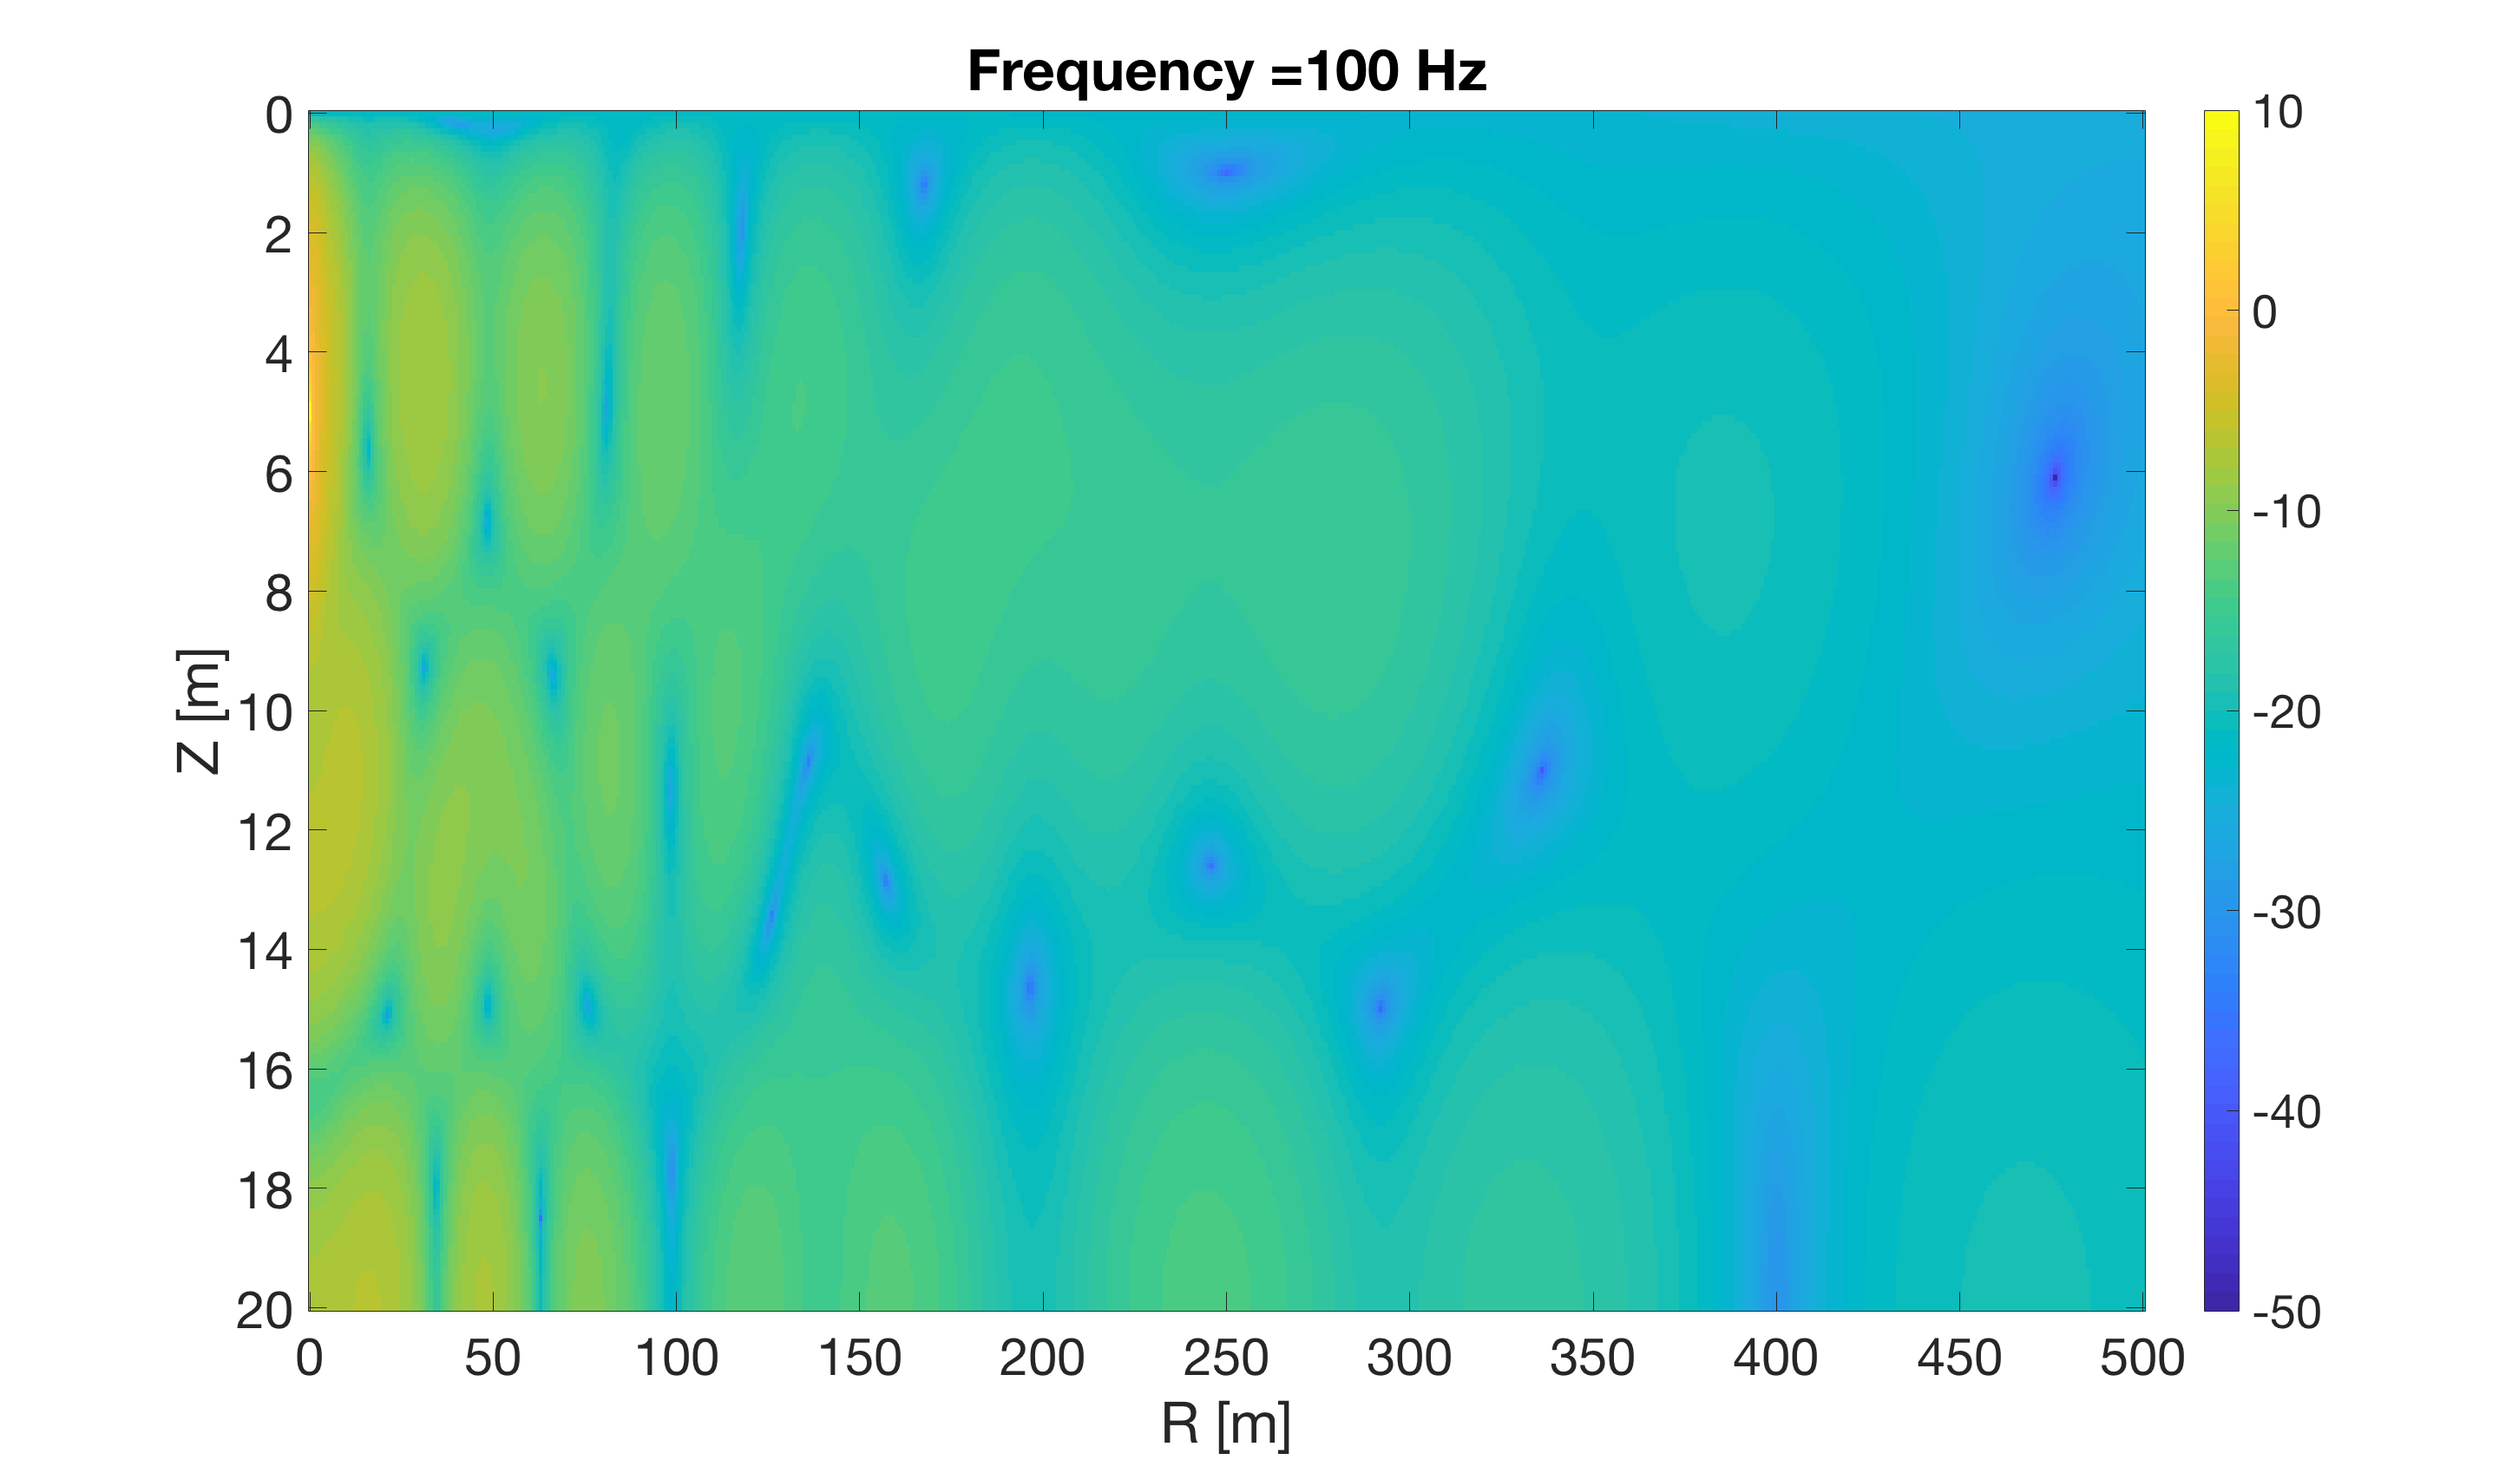
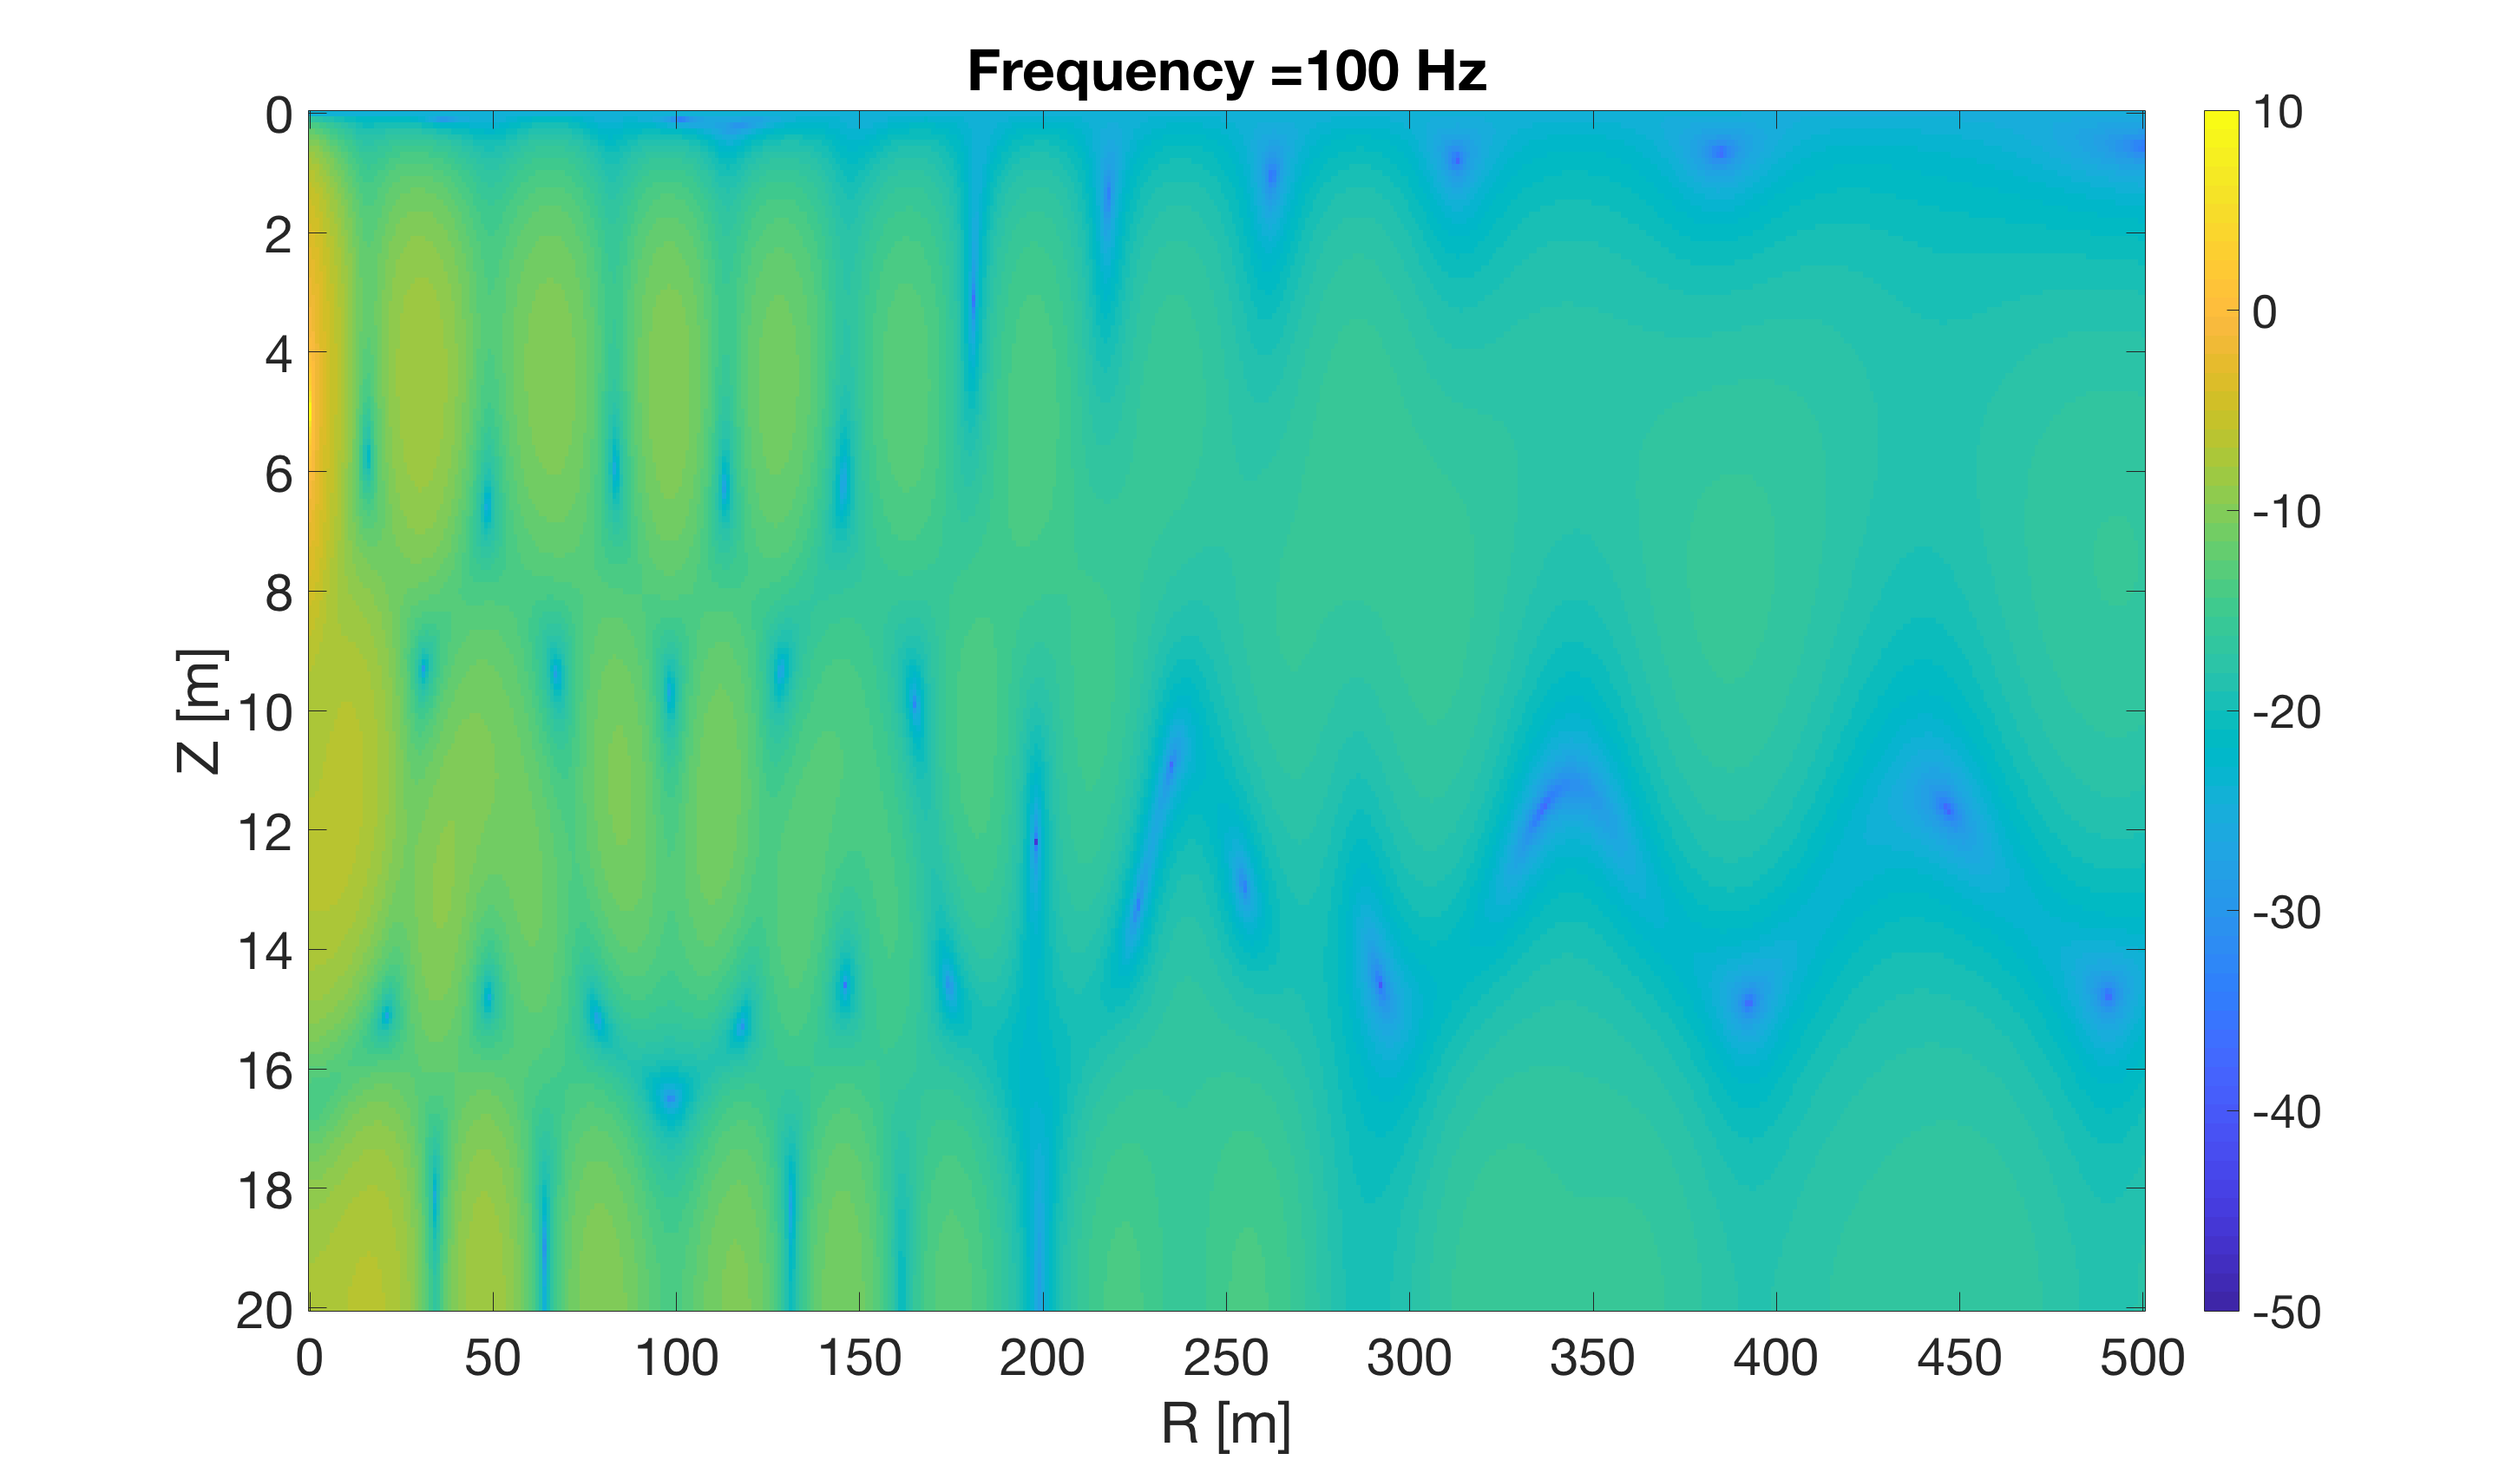
saved the images for assignment 6 again

diff --git a/usp6.m b/usp6.m
@@ -11,7 +11,7 @@ for i = 1:1:5
     [z,r] = ndgrid(z_R,r_R);
     P = zeros(length(z_R),length(r_R),2);
     p = zeros(length(z_R),length(r_R),2);
-    for m = 0:1:5
+    for m = 0:1:10 % more than 5 iterations
         C1 = 2.*D;
         C2 = z_S+z;
         C3 = z_S-z;
@@ -49,6 +49,5 @@ for i = 1:1:5
            end
        end
    end
-      
 end
 
